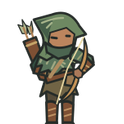
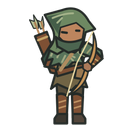
Frame complete class portraits and keep hunter strides moving while aiming

diff --git a/src/scene.ts b/src/scene.ts
@@ -36,10 +36,11 @@ export class ForestScene extends Phaser.Scene {
   private readonly touchControl=matchMedia('(pointer: coarse)');
   private woundText!:Phaser.GameObjects.BitmapText;
   private texts:Phaser.GameObjects.Text[]=[];private textCursor=0;private effects:VisualEffect[]=[];
-  private keys?:Record<string,Phaser.Input.Keyboard.Key>;private accumulator=0;private uiClock=0;private readonly frameStats=new FrameStats();
+  private keys?:Record<string,Phaser.Input.Keyboard.Key>;private accumulator=0;private previousX=0;private previousY=0;private uiClock=0;private readonly frameStats=new FrameStats();
   private stick?:{id:number;x:number;y:number};private movement={x:0,y:0};private stickInk!:Phaser.GameObjects.Graphics;
   constructor(hooks:SceneHooks){super('forest');this.hooks=hooks;}
   preload(){
+    this.load.spritesheet('hunter-motion',art('hunter-motion.png'),{frameWidth:128,frameHeight:128});
     this.load.spritesheet('martial-heroes',art('martial-heroes.png'),{frameWidth:128,frameHeight:128});
     this.load.atlas('hurt-faces',art('hurt-faces.png'),hurtFaces);
     this.load.spritesheet('mini-bosses',art('mini-bosses.png'),{frameWidth:128,frameHeight:128});
@@ -114,21 +115,22 @@ export class ForestScene extends Phaser.Scene {
     this.tweens.killTweensOf(this.woundText);this.woundText.setVisible(false);
     this.fxInk.clear();this.worldInk.clear();this.health.begin();this.health.end();
     this.lastGather=-1;this.stickState='';
-    this.sim=sim;this.accumulator=0;this.uiClock=0;this.frameStats.reset();this.effects=[];
+    this.sim=sim;this.previousX=sim.player.x;this.previousY=sim.player.y;this.accumulator=0;this.uiClock=0;this.frameStats.reset();this.effects=[];
     this.sprites.forEach(s=>{s.setVisible(false);this.spritePool.push(s)});this.sprites.clear();this.texts.forEach(t=>t.setVisible(false));
     this.rig?.destroy();this.rig=sim.path.job==='mage'?new WitchRig(this,0xffffff):new MartialRig(this,sim.path.job);this.running=true;
     this.rig.update(0,false,0,false,0);
     this.rig.root.setPosition(sim.player.x,sim.player.y).setDepth(1000);this.cameras.main.centerOn(sim.player.x,sim.player.y);
-    this.cameras.main.startFollow(this.rig.root,true,.12,.12);this.cameras.main.setZoom(1);
+    this.cameras.main.startFollow(this.rig.root,sim.path.job!=='hunter',.12,.12);this.cameras.main.setZoom(1);
     this.hooks.tick(sim,this.frameStats);
   }
-  setPaused(paused:boolean){this.running=!paused;this.dashQueued=false;this.frameStats.reset();this.movement={x:0,y:0};this.stick=undefined;this.stickInk?.clear();this.stickState='';this.accumulator=0;this.input?.keyboard?.resetKeys();}
+  setPaused(paused:boolean){if(this.sim){this.previousX=this.sim.player.x;this.previousY=this.sim.player.y;}this.running=!paused;this.dashQueued=false;this.frameStats.reset();this.movement={x:0,y:0};this.stick=undefined;this.stickInk?.clear();this.stickState='';this.accumulator=0;this.input?.keyboard?.resetKeys();}
   update(_time:number,delta:number){
     if(!this.sim||!this.rig||!this.running)return;
     const dt=Math.min(delta/1000,.1);
     const k=this.keys;const input={x:this.movement.x+(k?.D.isDown||k?.RIGHT.isDown?1:0)-(k?.A.isDown||k?.LEFT.isDown?1:0),y:this.movement.y+(k?.S.isDown||k?.DOWN.isDown?1:0)-(k?.W.isDown||k?.UP.isDown?1:0)};
     this.accumulator=Math.min(this.accumulator+dt,.1);
     while(this.accumulator>=1/60&&this.running){
+      this.previousX=this.sim.player.x;this.previousY=this.sim.player.y;
       this.sim.step(1/60,{...input,dash:this.dashQueued});this.dashQueued=false;this.accumulator-=1/60;this.captureEffects();
       if(this.sim.ended){
         this.running=false;
@@ -143,7 +145,10 @@ export class ForestScene extends Phaser.Scene {
       if(this.sim.pendingLevels>0){this.running=false;this.hooks.upgrade();break;}
     }
     this.rig.update(dt,this.sim.player.moving,this.sim.player.angle,this.sim.player.invincible>0,this.sim.seconds,this.sim.dashTime);
-    this.rig.root.setPosition(this.sim.player.x,this.sim.player.y);
+    // Render between the two fixed simulation samples on high-refresh displays.
+    const blend=this.sim.path.job==='hunter' && this.running?Math.min(1,this.accumulator*60):1;
+    const p=this.sim.player;
+    this.rig.root.setPosition(this.previousX+(p.x-this.previousX)*blend,this.previousY+(p.y-this.previousY)*blend);
     this.woods.follow(this.sim.player.x,this.sim.player.y,this.sim.seed);this.drawWorld();this.drawRemains(dt);this.drawEffects(this.running?dt:0);this.drawStick();
     this.uiClock+=dt;if(this.uiClock>.12){this.uiClock=0;this.hooks.tick(this.sim,this.frameStats);}
   }

diff --git a/src/martialRig.ts b/src/martialRig.ts
@@ -4,6 +4,8 @@ import {facingFromVector,type Facing} from './pose';
 export class MartialRig {
   readonly root:Phaser.GameObjects.Container;
   private figure:Phaser.GameObjects.Image;
+  private feet?:Phaser.GameObjects.Image;
+  private walkFacing:Facing='front';
   private facing:Facing='front';
   private attack=1; private wound=0; private stride=0;
   private recoilX=0; private recoilY=0;
@@ -12,7 +14,11 @@ export class MartialRig {
   constructor(scene:Phaser.Scene,job:'warden'|'hunter'){
     this.bank=job==='warden'?0:36;
     this.figure=scene.add.image(0,0,'martial-heroes',this.bank+11).setOrigin(.5,.61).setScale(.83);
-    this.root=scene.add.container(0,0,[this.figure]);
+    if(job==='hunter'){
+      this.feet=scene.add.image(0,0,'hunter-motion',0).setOrigin(.5,.61).setScale(.83);
+      this.figure.setTexture('hunter-motion',24);
+    }
+    this.root=scene.add.container(0,0,this.feet?[this.feet,this.figure]:[this.figure]);
   }
   cast(dx:number,dy:number){
     if(this.attack<.14 || this.wound>.13)return;
@@ -24,6 +30,23 @@ export class MartialRig {
   update(dt:number,moving:boolean,angle:number,invincible:boolean,seconds:number,dash=0){
     this.attack+=dt;this.wound=Math.max(0,this.wound-dt);
     if(moving){this.stride+=dt*11;if(this.attack>=.30)this.facing=facingFromVector(Math.cos(angle),Math.sin(angle),this.facing);}
+    if(this.feet){
+      if(moving)this.walkFacing=facingFromVector(Math.cos(angle),Math.sin(angle),this.walkFacing);
+      const row=(v:Facing)=>v==='back'?2:v==='front'?0:1;
+      const phase=moving?Math.floor(this.stride*4)%24:0;
+      // Feet track travel even when the upper body aims behind the player.
+      const legs=row(moving?this.walkFacing:this.facing)*30+phase;
+      const top=row(this.facing)*30+24+(this.wound>.09?5:this.attack<.30?1+Math.min(3,Math.floor(this.attack/.075)):0);
+      const kick=(this.wound/.28)**2,dx=this.recoilX*4*kick,dy=this.recoilY*3*kick;
+      if(Number(this.feet.frame.name)!==legs)this.feet.setFrame(legs);
+      if(Number(this.figure.frame.name)!==top)this.figure.setFrame(top);
+      this.feet.setFlipX((moving?this.walkFacing:this.facing)==='left').setPosition(dx,dy);
+      const bob=moving?-Math.abs(Math.sin(this.stride*Math.PI/3))*1.15:0;
+      this.figure.setFlipX(this.facing==='left').setPosition(dx,dy+bob);
+      this.root.alpha=invincible?.86+.14*Math.abs(Math.sin(seconds*7)):1;
+      this.root.setDepth(this.wound>.025?1800:1000);
+      return;
+    }
     const direction=this.facing==='back'?2:this.facing==='front'?0:1;
     const pose=this.wound>.09?10:this.attack<.30?6+Math.min(3,Math.floor(this.attack/.075)):moving?Math.floor(this.stride)%6:11;
     const f=this.bank+direction*12+pose;

diff --git a/README.md b/README.md
@@ -1,6 +1,6 @@
 # 森光守夜 · Forest Nightwatch
 
-**当前版本：v1.10.0 · 职业造型与营地训练**　｜　[版本说明](https://github.com/DraymondZhou/forest-nightwatch/releases/tag/v1.10.0) · [下载离线游戏（HTML）](https://github.com/DraymondZhou/forest-nightwatch/releases/download/v1.10.0/Forest-Nightwatch-v1.10.0.html)
+**当前版本：v1.10.1 · 全身职业卡与猎手移动**　｜　[版本说明](https://github.com/DraymondZhou/forest-nightwatch/releases/tag/v1.10.1) · [下载离线游戏（HTML）](https://github.com/DraymondZhou/forest-nightwatch/releases/download/v1.10.1/Forest-Nightwatch-v1.10.1.html)
 
 《森光守夜》是一款支持手机横屏和电脑浏览器的森林生存肉鸽。先选职业，再选流派：法师靠雷电、孢子或余火控制战场；剑卫用盾反或重斩近身作战；猎手用穿杨或散射调整交战距离。
 
@@ -36,7 +36,7 @@ npm run build
 
 ## 资源与许可
 
-剑卫和猎手的独立动作图集由 `scripts/bake-martial.cjs` 烘焙，每份含 36 帧。三只首领沿用原造型绘制正常和受损两套动作，每只共 48 帧，见 `scripts/bake-mini-bosses.cjs` 和 `scripts/bake-chief-regalia.cjs`；不同敌种的树脂弹、晶片、蛾粉和树种由 `src/encounterInk.ts` 绘制。
+剑卫和猎手的独立动作图集由 `scripts/bake-martial.cjs` 烘焙，基础图集每份含 36 帧；猎手移动时分别绘制腿和上身，每个方向有 24 个步态采样，开弓并不打断步态。职业卡使用完整人物并统一脚底线。三只首领沿用原造型绘制正常和受损两套动作，每只共 48 帧，见 `scripts/bake-mini-bosses.cjs` 和 `scripts/bake-chief-regalia.cjs`；不同敌种的树脂弹、晶片、蛾粉和树种由 `src/encounterInk.ts` 绘制。
 
 星雷命中图集 `public/art/storm-impact.png` 改编自 13rice 的 *Radial lightning effect*。本作裁取六帧，并为普通和满电攻击分别着色。原素材采用 CC0。[作者及原图](https://opengameart.org/content/radial-lightning-effect) · [CC0 1.0](https://creativecommons.org/publicdomain/zero/1.0/)
 

diff --git a/docs/reviews.md b/docs/reviews.md
@@ -125,3 +125,9 @@ https://en.esotericsoftware.com/spine-slots/
 - 开局直接选职业、再选流派。法师保留分部件施法骨架；剑卫和猎手为独立的关节烘焙模型，各有 36 帧。三只首领保留原有图形轮廓，分别绘制正常、半血损伤两套动作。
 - 全职业基础 100 生命、18.5 步/秒。普通怪 12% 掉 1 金，精英 65% 掉 3 金，小首领必掉 12 金，最终首领胜利时自动入账 25 金。每项训练 5 级，跨局、跨职业继承；不动旧存档中的设置和成就。
 - 71 项测试和生产构建通过。桌面 Edge 断网验证职业选择、图集、首领、金币拾取、购买体魄、刷新后换职业继承生命。150 只敌人、200 枚弹体、240 个掉落物的桌面测试约 5.5 秒平均 60.0 FPS，P95 19 ms；iPhone 尚未实测。
+
+## v1.10.1 全身职业卡与猎手移动
+
+- 三张职业卡使用完整人物轮廓并按鞋底线对齐。法师卡用游戏的分部件组装法杖、手臂和双腿，替换原来的上半身拼图。
+- 猎手的移动步态和上身射击分层采样；相机和人物显示使用固定战斗更新之间的位置，不改变实际速度或碰撞。
+- 生产构建通过；同一段 120 Hz 浏览器离线回放中，109 个连续移动间隔中位置重复次数由 54 降至 0；向右跑、向左射时腿部继续播放 13 个不同姿势。新旧版一秒均移动 185 个世界单位。尚未在 iPhone 实机检查。
